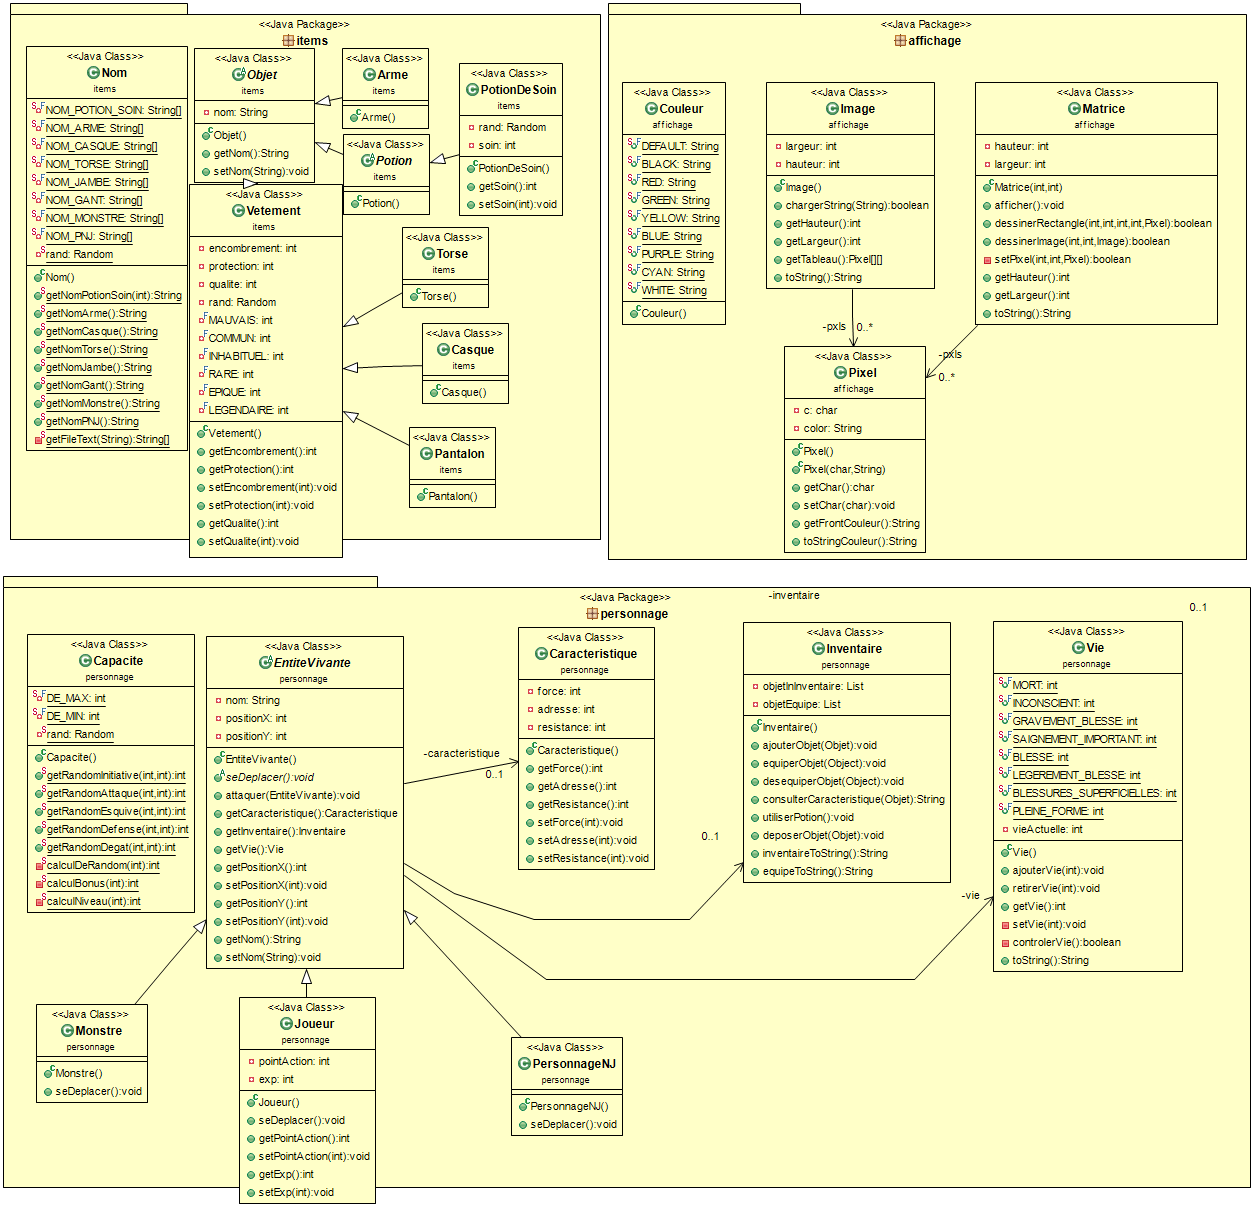
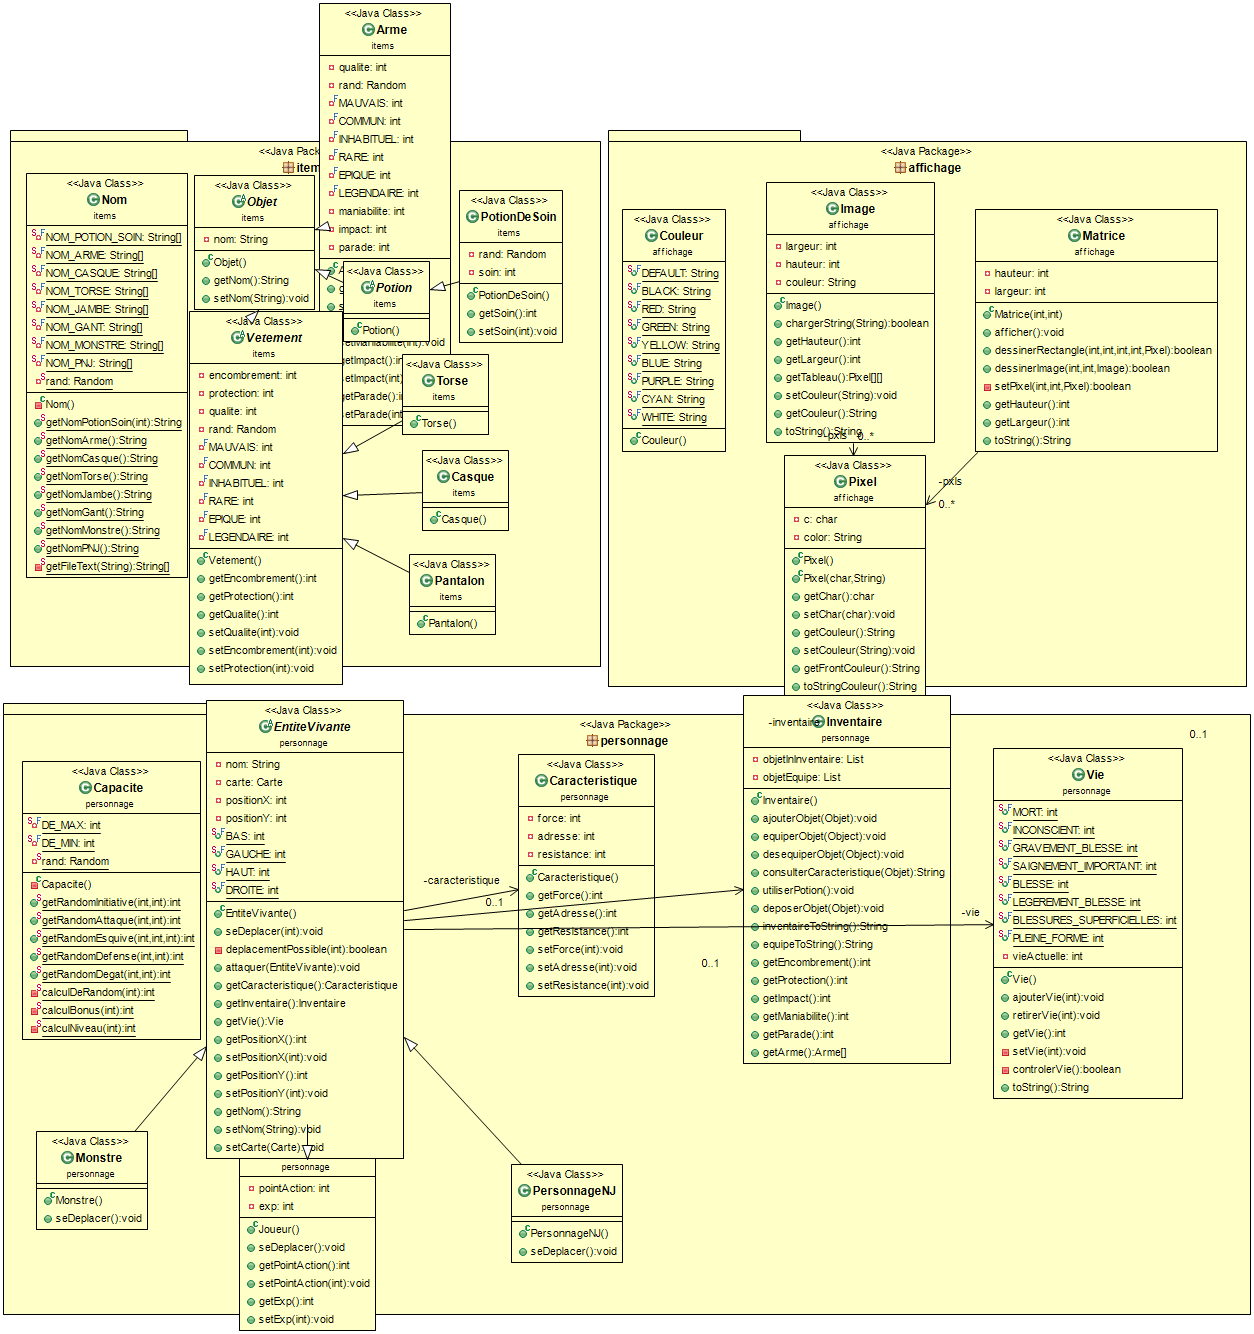
Rectificatifs (TODO)

diff --git a/src/personnage/Test.java b/src/personnage/Test.java
@@ -16,24 +16,27 @@ import items.PotionDeSoin;
 
 public class Test {
 	public static void main(String[] args) {
-		float x = 10;
-		System.out.println(5.00 + (30 * Math.exp(-(40/(x+10)))));
-		x = 20;
-		System.out.println(5.00 + (30 * Math.exp(-(40/(x+10)))));
-		 x = 30;
-		System.out.println(5.00 + (30 * Math.exp(-(40/(x+10)))));
-		 x = 40;
-		System.out.println(5.00 + (30 * Math.exp(-(40/(x+10)))));
-		 x = 50;
-		System.out.println(5.00 + (30 * Math.exp(-(40/(x+10)))));
-		 x = 60;
-		System.out.println(5.00 + (30 * Math.exp(-(40/(x+10)))));
-		 x = 70;
-		System.out.println(5.00 + (30 * Math.exp(-(40/(x+10)))));
-		 x = 80;
-		System.out.println(5.00 + (30 * Math.exp(-(40/(x+10)))));
-		 x = 90;
-		System.out.println(5.00 + (30 * Math.exp(-(40/(x+10)))));
+		
+		
+			
+//		float x = 10;
+//		System.out.println(5.00 + (30 * Math.exp(-(40/(x+10)))));
+//		x = 20;
+//		System.out.println(5.00 + (30 * Math.exp(-(40/(x+10)))));
+//		 x = 30;
+//		System.out.println(5.00 + (30 * Math.exp(-(40/(x+10)))));
+//		 x = 40;
+//		System.out.println(5.00 + (30 * Math.exp(-(40/(x+10)))));
+//		 x = 50;
+//		System.out.println(5.00 + (30 * Math.exp(-(40/(x+10)))));
+//		 x = 60;
+//		System.out.println(5.00 + (30 * Math.exp(-(40/(x+10)))));
+//		 x = 70;
+//		System.out.println(5.00 + (30 * Math.exp(-(40/(x+10)))));
+//		 x = 80;
+//		System.out.println(5.00 + (30 * Math.exp(-(40/(x+10)))));
+//		 x = 90;
+//		System.out.println(5.00 + (30 * Math.exp(-(40/(x+10)))));
 		
 		
 //				int result;
@@ -51,9 +54,9 @@ public class Test {
 //			System.out.println(j.getNom());
 //
 //		}
-		Joueur joueur = new Joueur ();
-		Joueur joueur1 = new Joueur ();
-		Monstre cible = new Monstre ();
+//		Joueur joueur = new Joueur ();
+//		Joueur joueur1 = new Joueur ();
+//		Monstre cible = new Monstre ();
 		/*
 		String filePath = "src/arme.txt";
 		String[] tab = null;
@@ -108,54 +111,54 @@ public class Test {
 		 * L'AJOUT ET LA SUPPRESION SONT CONTROLE
 		 */
 
-
-		PotionDeSoin potion1 = new PotionDeSoin();
-		PotionDeSoin potion2 = new PotionDeSoin();
-		PotionDeSoin potion3 = new PotionDeSoin();
-		Arme arme = new Arme();
-		Arme arme1 = new Arme();
-		Pantalon jambe = new Pantalon();
-		Casque casque = new Casque();
-
-		PotionDeSoin potion11 = new PotionDeSoin();
-		PotionDeSoin potion21 = new PotionDeSoin();
-		PotionDeSoin potion31 = new PotionDeSoin();
-		Arme arme12 = new Arme();
-		Arme arme11 = new Arme();
-		Pantalon jambe1 = new Pantalon();
-		Casque casque1 = new Casque();
-
-		//System.out.println(arme.getNom());
-		joueur.getInventaire().ajouterObjet(potion1);
-		joueur.getInventaire().ajouterObjet(arme);
-		joueur.getInventaire().ajouterObjet(potion2);
-		joueur.getInventaire().ajouterObjet(arme1);
-		joueur.getInventaire().ajouterObjet(potion3);
-		joueur.getInventaire().ajouterObjet(jambe);
-		joueur.getInventaire().ajouterObjet(casque);
-		joueur1.getInventaire().ajouterObjet(potion11);
-		joueur1.getInventaire().ajouterObjet(arme12);
-		joueur1.getInventaire().ajouterObjet(potion21);
-		joueur1.getInventaire().ajouterObjet(arme11);
-		joueur1.getInventaire().ajouterObjet(potion31);
-		joueur1.getInventaire().ajouterObjet(jambe1);
-		joueur1.getInventaire().ajouterObjet(casque1);
+//
+//		PotionDeSoin potion1 = new PotionDeSoin();
+//		PotionDeSoin potion2 = new PotionDeSoin();
+//		PotionDeSoin potion3 = new PotionDeSoin();
+//		Arme arme = new Arme();
+//		Arme arme1 = new Arme();
+//		Pantalon jambe = new Pantalon();
+//		Casque casque = new Casque();
+//
+//		PotionDeSoin potion11 = new PotionDeSoin();
+//		PotionDeSoin potion21 = new PotionDeSoin();
+//		PotionDeSoin potion31 = new PotionDeSoin();
+//		Arme arme12 = new Arme();
+//		Arme arme11 = new Arme();
+//		Pantalon jambe1 = new Pantalon();
+//		Casque casque1 = new Casque();
+//
+//		//System.out.println(arme.getNom());
+//		joueur.getInventaire().ajouterObjet(potion1);
+//		joueur.getInventaire().ajouterObjet(arme);
+//		joueur.getInventaire().ajouterObjet(potion2);
+//		joueur.getInventaire().ajouterObjet(arme1);
+//		joueur.getInventaire().ajouterObjet(potion3);
+//		joueur.getInventaire().ajouterObjet(jambe);
+//		joueur.getInventaire().ajouterObjet(casque);
+//		joueur1.getInventaire().ajouterObjet(potion11);
+//		joueur1.getInventaire().ajouterObjet(arme12);
+//		joueur1.getInventaire().ajouterObjet(potion21);
+//		joueur1.getInventaire().ajouterObjet(arme11);
+//		joueur1.getInventaire().ajouterObjet(potion31);
+//		joueur1.getInventaire().ajouterObjet(jambe1);
+//		joueur1.getInventaire().ajouterObjet(casque1);
 //		System.out.println("Voici l'inventaire du joueur : "); 
 //		System.out.println("\n" + joueur.getInventaire().inventaireToString());
 //		joueur.getInventaire().deposerObjet(potion2);
 //		System.out.println("\n\nOn a retire la deuxieme potion, resultat : ");
 //		System.out.println("\n" + joueur.getInventaire().inventaireToString());
 
-
-		System.out.println("\n\nOn equipe le joueur de l'arme 1 et 2 presente dans son inventaire");
-		joueur.getInventaire().equiperObjet(arme);
-		joueur.getInventaire().equiperObjet(arme1);
-		joueur.getInventaire().equiperObjet(jambe);
-		joueur.getInventaire().equiperObjet(casque);
-		joueur1.getInventaire().equiperObjet(arme11);
-		joueur1.getInventaire().equiperObjet(arme12);
-		joueur1.getInventaire().equiperObjet(jambe1);
-		joueur1.getInventaire().equiperObjet(casque1);
+//
+//		System.out.println("\n\nOn equipe le joueur de l'arme 1 et 2 presente dans son inventaire");
+//		joueur.getInventaire().equiperObjet(arme);
+//		joueur.getInventaire().equiperObjet(arme1);
+//		joueur.getInventaire().equiperObjet(jambe);
+//		joueur.getInventaire().equiperObjet(casque);
+//		joueur1.getInventaire().equiperObjet(arme11);
+//		joueur1.getInventaire().equiperObjet(arme12);
+//		joueur1.getInventaire().equiperObjet(jambe1);
+//		joueur1.getInventaire().equiperObjet(casque1);
 //		System.out.println("\nOn affiche les objets equipé par le joueur : ");
 //		System.out.println("\n" + joueur.getInventaire().equipeToString());
 ////
@@ -203,14 +206,14 @@ public class Test {
 		 */
 
 
-		
-		joueur1.getCaracteristique().setForce(5);
-		joueur1.getCaracteristique().setAdresse(5);
-		joueur1.getCaracteristique().setResistance(5);
-		joueur.getCaracteristique().setForce(5);
-		joueur.getCaracteristique().setAdresse(5);
-		joueur.getCaracteristique().setResistance(5);
-//
+//		
+//		joueur1.getCaracteristique().setForce(5);
+//		joueur1.getCaracteristique().setAdresse(5);
+//		joueur1.getCaracteristique().setResistance(5);
+//		joueur.getCaracteristique().setForce(5);
+//		joueur.getCaracteristique().setAdresse(5);
+//		joueur.getCaracteristique().setResistance(5);
+////
 //		System.out.println("\n   vie avant attaque : " + cible.getVie().getVie() + "\n");
 //		joueur.attaquer(cible);
 //		System.out.println("\n   vie apres attaque : " + cible.getVie().getVie() + "\n");
@@ -219,14 +222,14 @@ public class Test {
 //		joueur.attaquer(cible);
 //		System.out.println("\n   vie apres attaque : " + cible.getVie().getVie() + "\n");
 
-
-		System.out.println("\n   vie avant attaque : " + joueur1.getVie().getVie() + "\n");
-		joueur.attaquer(joueur1);
-		System.out.println("\n   vie apres attaque : " + joueur1.getVie().getVie() + "\n");
-		joueur.attaquer(joueur1);
-		System.out.println("\n   vie apres attaque : " + joueur1.getVie().getVie() + "\n");
-		joueur.attaquer(joueur1);
-		System.out.println("\n   vie apres attaque : " + joueur1.getVie().getVie() + "\n");
+//
+//		System.out.println("\n   vie avant attaque : " + joueur1.getVie().getVie() + "\n");
+//		joueur.attaquer(joueur1);
+//		System.out.println("\n   vie apres attaque : " + joueur1.getVie().getVie() + "\n");
+//		joueur.attaquer(joueur1);
+//		System.out.println("\n   vie apres attaque : " + joueur1.getVie().getVie() + "\n");
+//		joueur.attaquer(joueur1);
+//		System.out.println("\n   vie apres attaque : " + joueur1.getVie().getVie() + "\n");
 //
 //		cible.getVie().ajouterVie(10);
 //

diff --git a/src/personnage/EntiteVivante.java b/src/personnage/EntiteVivante.java
@@ -43,40 +43,41 @@ abstract public class EntiteVivante {
 	/**
 	 * Gere le deplacement de l'entite
 	 */
-	public void seDeplacer (int direction){ // TODO: Les deplacements HAUT et BAS sont sans doute inverses
+	public void seDeplacer (int direction){
 		switch(direction){
-			case EntiteVivante.BAS :
-				if(this.deplacementPossible(direction)){
-					this.setPositionY(this.getPositionY() - 1);
-				}
-				break;
-			case EntiteVivante.HAUT :
-				if(this.deplacementPossible(direction)){
-					this.setPositionY(this.getPositionY() + 1);
-				}
-				break;
-			case EntiteVivante.GAUCHE :
-				if(this.deplacementPossible(direction)){
-					this.setPositionX(this.getPositionX() - 1);
-				}
-				break;
-			case EntiteVivante.DROITE :
-				if(this.deplacementPossible(direction)){
-					this.setPositionX(this.getPositionX() + 1);
-				}
-				break;
+		case EntiteVivante.BAS :
+			if(this.deplacementPossible(direction)){
+				this.setPositionY(this.getPositionY() + 1);
+			}
+			break;
+		case EntiteVivante.HAUT :
+			if(this.deplacementPossible(direction)){
+				this.setPositionY(this.getPositionY() - 1);
+			}
+			break;
+		case EntiteVivante.GAUCHE :
+			if(this.deplacementPossible(direction)){
+				this.setPositionX(this.getPositionX() - 1);
+			}
+			break;
+		case EntiteVivante.DROITE :
+			if(this.deplacementPossible(direction)){
+				this.setPositionX(this.getPositionX() + 1);
+			}
+			break;
 		}
 	}
 
-	private boolean deplacementPossible (int direction) { // TODO: Teste si une carte a ete associee (setCarte) avant de tester si le deplacement est possible (si non NullPointerExeption)
-		switch(direction){
+	private boolean deplacementPossible (int direction) {
+		if(this.carte != null){
+			switch(direction){
 			case EntiteVivante.BAS :
-				if(carte.getCase(this.getPositionX(), this.getPositionY() - 1).getValeur() == Case.VIDE){
+				if(carte.getCase(this.getPositionX(), this.getPositionY() + 1).getValeur() == Case.VIDE){
 					return true;
 				}
 				return false;
 			case EntiteVivante.HAUT :
-				if(carte.getCase(this.getPositionX(), this.getPositionY() + 1).getValeur() == Case.VIDE){
+				if(carte.getCase(this.getPositionX(), this.getPositionY() - 1).getValeur() == Case.VIDE){
 					return true;
 				}
 				return false;
@@ -91,7 +92,9 @@ abstract public class EntiteVivante {
 				}
 				return false;
 			default : return false;
+			}
 		}
+		return false;
 	}
 
 
